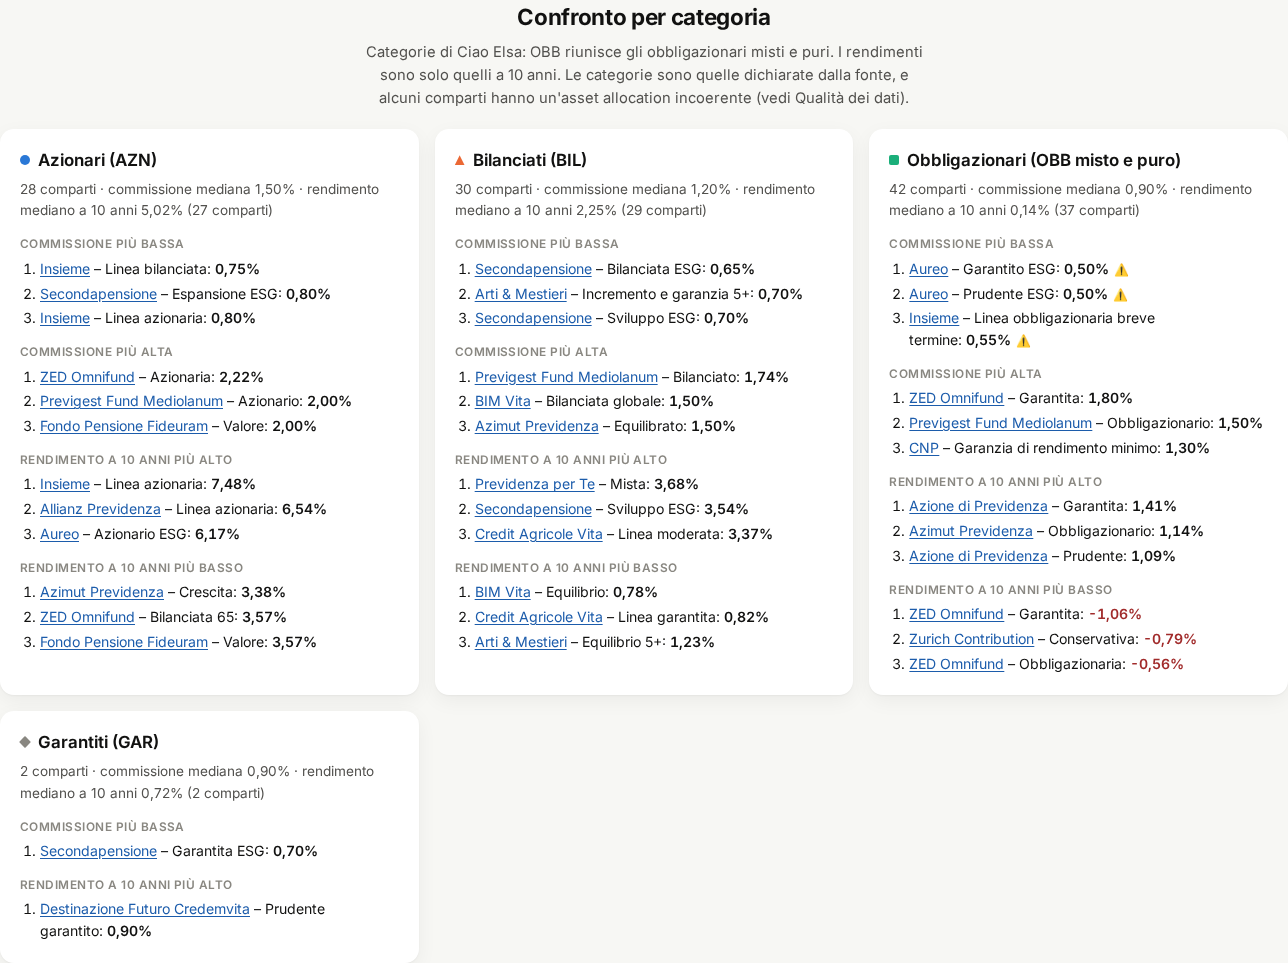
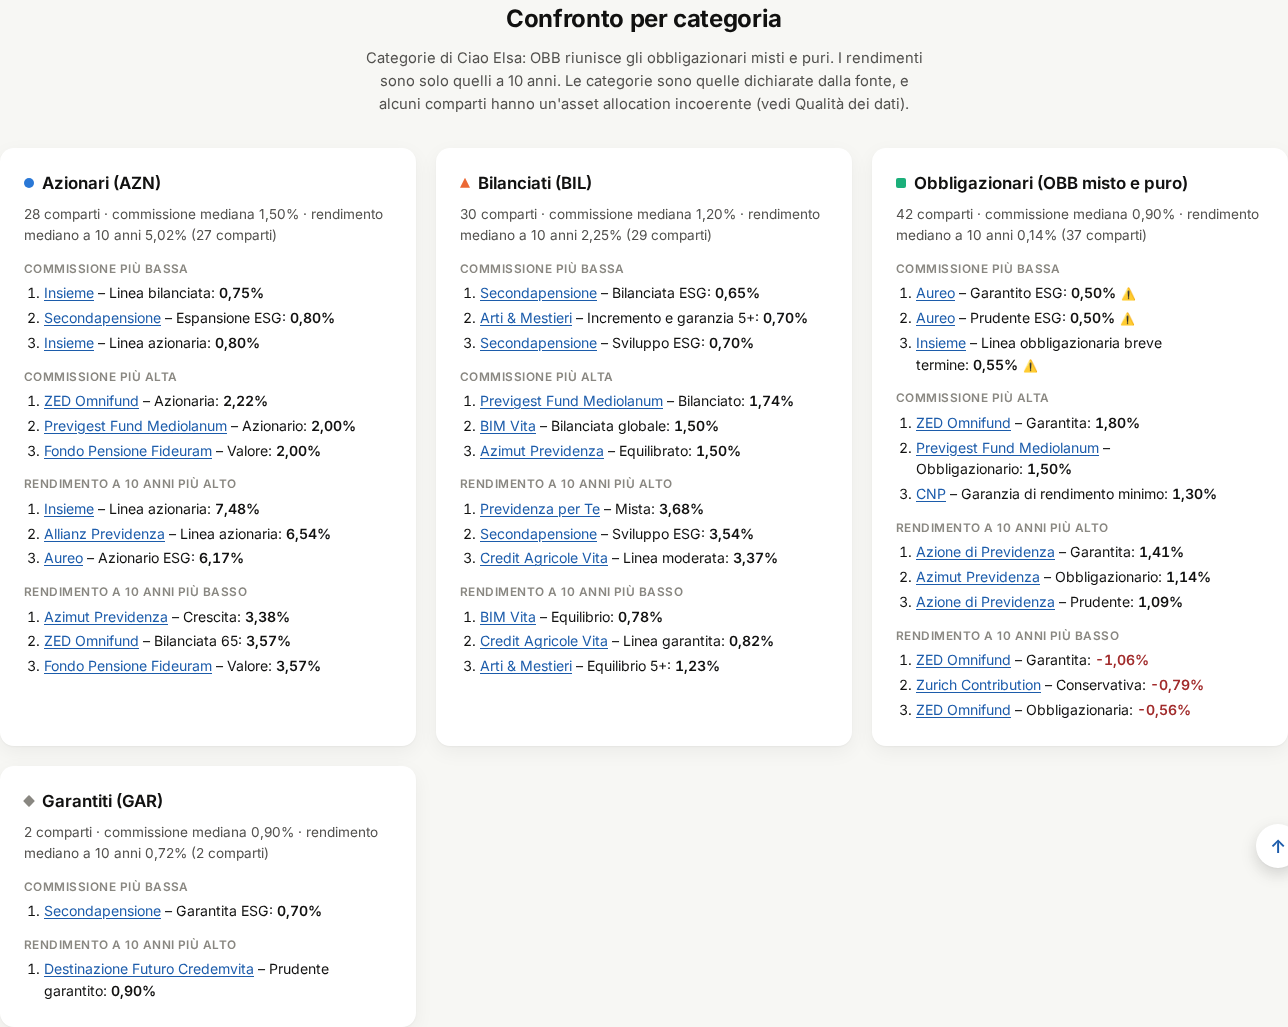
sito: menu con sezione attiva, torna su, più spazio e licenza corretta
- Menu: la barra fissa evidenzia la sezione visibile e su telefono scorre
  fino alla voce attiva (docs/navigazione.js, condiviso con la guida)
- Pulsante "Torna su" in basso a destra, visibile dopo uno schermo
- Spaziatura verticale più ampia tra le sezioni e al loro interno
- Centrate anche le sotto-aperture di Qualità dei dati (Copertura,
  Anomalie) e il footer
- Licenza: il footer riportava erroneamente MIT; ora export_xlsx.py la
  ricava dal file LICENSE (The Unlicense, pubblico dominio) e la scrive in
  meta.json; precisato che i dati restano delle rispettive fonti.
  README corretto
- Test: menu e torna su, licenza; guida, screenshot e CLAUDE.md aggiornati

diff --git a/docs/style.css b/docs/style.css
@@ -112,15 +112,15 @@ a:hover { text-decoration-thickness: 2px; }
 .skip:focus { left: 16px; top: 8px; background: var(--surface); padding: 8px; z-index: 30; }
 
 /* intestazione */
-.hero { background: linear-gradient(180deg, var(--hero-from), var(--hero-to)); padding: 48px 0 32px; text-align: center; }
+.hero { background: linear-gradient(180deg, var(--hero-from), var(--hero-to)); padding: 64px 0 44px; text-align: center; }
 .eyebrow {
-  display: inline-block; margin: 0 0 12px; padding: 3px 10px; border-radius: 999px;
+  display: inline-block; margin: 0 0 18px; padding: 3px 10px; border-radius: 999px;
   background: var(--surface); box-shadow: var(--shadow);
   color: var(--accent-ink); font-size: 0.78rem; font-weight: 600; letter-spacing: 0.01em;
 }
-h1 { font-size: clamp(1.7rem, 3.6vw, 2.5rem); line-height: 1.12; letter-spacing: -0.025em; font-weight: 750; margin: 0 0 12px; }
-h2 { font-size: 1.4rem; letter-spacing: -0.015em; font-weight: 700; margin: 0 0 6px; }
-h3 { font-size: 1.05rem; font-weight: 650; margin: 0 0 8px; }
+h1 { font-size: clamp(1.7rem, 3.6vw, 2.5rem); line-height: 1.12; letter-spacing: -0.025em; font-weight: 750; margin: 0 0 16px; }
+h2 { font-size: 1.5rem; letter-spacing: -0.015em; font-weight: 700; margin: 0 0 10px; }
+h3 { font-size: 1.05rem; font-weight: 650; margin: 0 0 10px; }
 .lead { color: var(--ink-2); font-size: 1.05rem; max-width: 62ch; margin: 0 auto; text-wrap: balance; }
 /* niente parole isolate a fine paragrafo; titoli con righe di lunghezza simile */
 h1, h2, h3 { text-wrap: balance; }
@@ -142,22 +142,24 @@ p, li { text-wrap: pretty; }
   padding: 6px 12px; border-radius: 999px; white-space: nowrap;
 }
 .topnav a:hover { background: var(--surface-2); color: var(--ink); }
+.topnav a[aria-current="true"] { background: var(--accent-soft); color: var(--accent-ink); font-weight: 650; }
 .topnav a.extra { color: var(--accent-ink); }
 .topnav .sep { flex: none; width: 1px; margin: 6px 6px; background: var(--border); }
 
 /* avviso progetto personale */
 .notice {
   display: block;
-  width: fit-content; max-width: 100%; margin: 20px auto 0; padding: 8px 16px;
+  width: fit-content; max-width: 100%; margin: 32px auto 0; padding: 8px 16px;
   background: var(--accent-soft); border-radius: var(--radius-sm);
   color: var(--ink-2); font-size: 0.88rem; text-align: center; text-wrap: balance;
 }
 .notice strong { color: var(--ink); }
 
-main section { margin: 52px 0; }
+main section { margin: 96px 0; }
+main section.kpis { margin: 32px 0 0; }
 /* "aperture" delle sezioni centrate (titolo + prima riga di spiegazione); tabelle, grafico, card e note restano a sinistra */
 main section > h2 { text-align: center; }
-main section > h2 + .hint { text-align: center; text-wrap: balance; margin-left: auto; margin-right: auto; max-width: 72ch; margin-bottom: 20px; }
+main section > h2 + .hint { text-align: center; text-wrap: balance; margin-left: auto; margin-right: auto; max-width: 72ch; margin-bottom: 32px; }
 .hint { color: var(--ink-2); font-size: 0.92rem; max-width: 80ch; margin: 0 0 14px; }
 .alert { background: var(--warn-bg); color: var(--warn-ink); padding: 12px 16px; border-radius: var(--radius-sm); }
 
@@ -168,7 +170,7 @@ main section > h2 + .hint { text-align: center; text-wrap: balance; margin-left:
 .kpi .l { color: var(--ink-2); font-size: 0.86rem; margin-top: 4px; }
 
 /* toolbar e filtri */
-.toolbar { display: flex; flex-wrap: wrap; align-items: center; gap: 8px; margin-bottom: 14px; }
+.toolbar { display: flex; flex-wrap: wrap; align-items: center; gap: 10px 8px; margin-bottom: 20px; }
 .search input, select {
   font: inherit; color: var(--ink); background: var(--surface);
   border: 1px solid var(--axis); border-radius: var(--radius-sm); padding: 8px 12px;
@@ -250,7 +252,7 @@ th[aria-sort="descending"] .sort::after { content: "↓"; color: var(--accent); 
 .alloc-lbl { white-space: nowrap; font-size: 0.8rem; color: var(--ink-2); font-variant-numeric: tabular-nums; }
 
 /* grafico */
-.legend { display: flex; flex-wrap: wrap; gap: 4px 10px; margin-bottom: 10px; font-size: 0.9rem; color: var(--ink-2); }
+.legend { display: flex; flex-wrap: wrap; gap: 4px 10px; margin-bottom: 16px; font-size: 0.9rem; color: var(--ink-2); }
 .legend button { font: inherit; color: inherit; background: none; border: 1px solid transparent; border-radius: 999px; padding: 3px 10px; cursor: pointer; display: inline-flex; align-items: center; gap: 7px; }
 .legend button[aria-pressed="false"] { opacity: 0.4; text-decoration: line-through; }
 .legend button:hover { background: var(--surface); border-color: var(--border); }
@@ -259,8 +261,8 @@ th[aria-sort="descending"] .sort::after { content: "↓"; color: var(--accent); 
 .chart-box { position: relative; height: min(540px, 70vh); background: var(--surface); border-radius: var(--radius); box-shadow: var(--shadow); padding: 16px; }
 
 /* card per categoria */
-.cards { display: grid; grid-template-columns: repeat(auto-fit, minmax(min(100%, 340px), 1fr)); gap: 16px; }
-.card { background: var(--surface); border-radius: var(--radius); box-shadow: var(--shadow); padding: 18px 20px; }
+.cards { display: grid; grid-template-columns: repeat(auto-fit, minmax(min(100%, 340px), 1fr)); gap: 20px; }
+.card { background: var(--surface); border-radius: var(--radius); box-shadow: var(--shadow); padding: 22px 24px; }
 .card h3 { display: flex; align-items: center; gap: 8px; }
 .card .stats { color: var(--ink-2); font-size: 0.85rem; margin: -2px 0 12px; }
 .card h4 { font-size: 0.74rem; text-transform: uppercase; letter-spacing: 0.04em; margin: 14px 0 4px; color: var(--muted); font-weight: 600; }
@@ -274,10 +276,15 @@ th[aria-sort="descending"] .sort::after { content: "↓"; color: var(--accent); 
 .cov span { display: block; height: 100%; }
 .cov .si { background: var(--accent); border-radius: 5px 0 0 5px; }
 .cov .no { background: var(--surface-2); border: 1px solid var(--axis); border-radius: 0 5px 5px 0; }
-.q-grid { display: grid; grid-template-columns: repeat(auto-fit, minmax(min(100%, 340px), 1fr)); gap: 16px; margin-top: 20px; }
-.q-grid > div { background: var(--surface); border-radius: var(--radius); box-shadow: var(--shadow); padding: 16px 18px; }
+.q-grid { display: grid; grid-template-columns: repeat(auto-fit, minmax(min(100%, 340px), 1fr)); gap: 20px; margin-top: 32px; }
+.q-grid > div { background: var(--surface); border-radius: var(--radius); box-shadow: var(--shadow); padding: 22px 24px; }
 .q-grid ul { margin: 8px 0 0; padding-left: 20px; font-size: 0.9rem; }
 .q-grid .q-note { grid-column: 1 / -1; order: 3; }
+/* sotto-aperture centrate come i titoli di sezione */
+.apertura { text-align: center; margin: 0 auto 20px; }
+.apertura + .apertura { margin-top: 48px; }
+.apertura .hint { margin-left: auto; margin-right: auto; max-width: 72ch; text-wrap: balance; }
+.apertura .cov { margin-left: auto; margin-right: auto; }
 .chips { list-style: none; display: flex; flex-wrap: wrap; gap: 6px; padding: 0; margin: 8px 0 0; }
 .q-grid ul.chips { padding-left: 0; }
 .chip {
@@ -318,13 +325,28 @@ dialog::backdrop { background: rgba(10, 10, 10, 0.45); backdrop-filter: blur(2px
 .note-box ul { margin: 4px 0 0; padding-left: 18px; }
 .cell-note { font-size: 0.8rem; color: var(--ink-2); min-width: 180px; max-width: 40ch; }
 
+/* torna su */
+.su {
+  position: fixed; right: 24px; bottom: calc(24px + env(safe-area-inset-bottom)); z-index: 25;
+  width: 44px; height: 44px; border-radius: 999px; border: 0; cursor: pointer;
+  background: var(--surface); color: var(--accent-ink); box-shadow: var(--shadow), 0 6px 18px rgba(0, 0, 0, 0.12);
+  font: 600 1.15rem/1 var(--font);
+  opacity: 0; transform: translateY(8px); pointer-events: none; transition: opacity 0.2s, transform 0.2s;
+}
+.su.visibile { opacity: 1; transform: none; pointer-events: auto; }
+.su:hover { background: var(--accent-soft); }
+h1:focus { outline: none; }
+
 /* footer */
-.site-footer { border-top: 1px solid var(--border); padding: 28px 0 36px; margin-top: 56px; font-size: 0.86rem; color: var(--ink-2); }
-.site-footer p { max-width: 90ch; margin: 0 0 10px; }
+.site-footer { border-top: 1px solid var(--border); padding: 36px 0 44px; margin-top: 96px; font-size: 0.86rem; color: var(--ink-2); }
+.site-footer { text-align: center; }
+.site-footer p { max-width: 90ch; margin: 0 auto 10px; text-wrap: balance; }
 .site-footer code { font-size: 0.9em; }
 
 @media (max-width: 640px) {
-  .hero { padding: 28px 0 20px; }
+  .hero { padding: 36px 0 28px; }
+  main section { margin: 72px 0; }
+  .su { right: 14px; bottom: 14px; }
   .data th, .data td { padding: 8px 9px; }
   #tab-fondi tbody th { min-width: 140px; max-width: 160px; }
   #conteggio { margin-left: 0; width: 100%; }
@@ -332,5 +354,5 @@ dialog::backdrop { background: rgba(10, 10, 10, 0.45); backdrop-filter: blur(2px
   .dialog-head, #d-body { padding-left: 14px; padding-right: 14px; }
   .kpi .v { font-size: 1.7rem; }
 }
-@media (prefers-reduced-motion: reduce) { html { scroll-behavior: auto; } .data tbody tr { transition: none; } }
+@media (prefers-reduced-motion: reduce) { html { scroll-behavior: auto; } .data tbody tr, .su { transition: none; } }
 @media (forced-colors: active) { .alloc .a, .cov .si { background: CanvasText; } .chk:has(input:checked) { outline: 2px solid CanvasText; } }

diff --git a/docs/navigazione.js b/docs/navigazione.js
@@ -1,0 +1,56 @@
+/* Navigazione condivisa da dashboard e guida:
+   - evidenzia nella barra in alto la sezione visibile (aria-current), e su telefono la porta in vista;
+   - pulsante "Torna su" che compare dopo un po' di scorrimento. */
+"use strict";
+
+(() => {
+  // ---------------------------------------------------------------- sezione attiva nel menu
+  const nav = document.querySelector(".topnav .wrap");
+  const link = nav ? [...nav.querySelectorAll('a[href^="#"]')] : [];
+  const sezioni = link.map((a) => document.getElementById(a.hash.slice(1))).filter(Boolean);
+
+  const attiva = (id) => {
+    for (const a of link) {
+      const on = a.hash === `#${id}`;
+      if (on) a.setAttribute("aria-current", "true");
+      else a.removeAttribute("aria-current");
+      // su schermi stretti la barra scorre di lato: porta in vista la voce attiva senza muovere la pagina
+      if (on && nav.scrollWidth > nav.clientWidth) {
+        const sx = a.offsetLeft - (nav.clientWidth - a.offsetWidth) / 2;
+        nav.scrollTo({ left: Math.max(0, sx), behavior: "smooth" });
+      }
+    }
+  };
+
+  if (sezioni.length) {
+    // una sezione è "attiva" quando attraversa una fascia appena sotto la barra fissa
+    const visibili = new Set();
+    const oss = new IntersectionObserver((voci) => {
+      for (const v of voci) v.isIntersecting ? visibili.add(v.target) : visibili.delete(v.target);
+      const prima = sezioni.find((s) => visibili.has(s));
+      if (prima) attiva(prima.id);
+      else if (window.scrollY < sezioni[0].offsetTop) attiva(null);
+    }, { rootMargin: "-80px 0px -55% 0px" });
+    sezioni.forEach((s) => oss.observe(s));
+  }
+
+  // ---------------------------------------------------------------- torna su
+  const su = document.createElement("button");
+  su.type = "button";
+  su.className = "su";
+  su.setAttribute("aria-label", "Torna su");
+  su.title = "Torna su";
+  su.innerHTML = '<span aria-hidden="true">↑</span>';
+  document.body.append(su);
+
+  const aggiorna = () => su.classList.toggle("visibile", window.scrollY > window.innerHeight * 0.8);
+  window.addEventListener("scroll", aggiorna, { passive: true });
+  aggiorna();
+
+  su.addEventListener("click", () => {
+    const riduci = window.matchMedia("(prefers-reduced-motion: reduce)").matches;
+    window.scrollTo({ top: 0, behavior: riduci ? "auto" : "smooth" });
+    // il focus torna all'inizio della pagina per chi naviga da tastiera
+    document.querySelector("h1")?.focus({ preventScroll: true });
+  });
+})();

diff --git a/docs/app.js b/docs/app.js
@@ -430,13 +430,17 @@ function renderQualita() {
   }).join("");
 
   document.getElementById("qualita-body").innerHTML = `
-    <h3>Copertura</h3>
-    <p>${conDati} fondi su ${fondi.length} hanno dati di dettaglio (${pct(conDati / fondi.length, 0)}).</p>
-    <div class="cov" role="img" aria-label="${conDati} fondi con dati su ${fondi.length}">
-      <span class="si" style="flex:${conDati}"></span><span class="no" style="flex:${fondi.length - conDati}"></span></div>
+    <div class="apertura">
+      <h3>Copertura</h3>
+      <p>${conDati} fondi su ${fondi.length} hanno dati di dettaglio (${pct(conDati / fondi.length, 0)}).</p>
+      <div class="cov" role="img" aria-label="${conDati} fondi con dati su ${fondi.length}">
+        <span class="si" style="flex:${conDati}"></span><span class="no" style="flex:${fondi.length - conDati}"></span></div>
+    </div>
 
-    <h3 style="margin-top:20px">Anomalie aperte sui comparti (${anomali.length})</h3>
-    <p class="hint">Segnalate in automatico dallo script di export. I dati sono riportati come sono nella fonte, senza correzioni: vanno verificati sulle Schede costi ufficiali.</p>
+    <div class="apertura">
+      <h3>Anomalie aperte sui comparti (${anomali.length})</h3>
+      <p class="hint">Segnalate in automatico dallo script di export. I dati sono riportati come sono nella fonte, senza correzioni: vanno verificati sulle Schede costi ufficiali.</p>
+    </div>
     <div class="table-scroll"><table class="data">
       <caption class="sr-only">Comparti con anomalie</caption>
       <thead><tr><th scope="col">Fondo</th><th scope="col">Comparto</th><th scope="col">Anomalia</th><th scope="col">Nota</th></tr></thead>
@@ -487,6 +491,11 @@ document.addEventListener("click", (e) => {
 function renderFooter() {
   const m = STATO.meta;
   const commit = m.commit ? ` · commit <code>${esc(m.commit.slice(0, 7))}</code>` : "";
+  const lic = m.licenza;
+  const repo = "https://github.com/andreagalle/goodbye-elsa/blob/master/";
+  document.getElementById("licenza").innerHTML = lic
+    ? `Codice rilasciato con licenza <a href="${repo}${esc(lic.file)}" rel="noopener">${esc(lic.nome)}</a>${lic.spdx === "Unlicense" ? " (pubblico dominio)" : ""}; i dati restano delle rispettive fonti.`
+    : "";
   document.getElementById("meta-footer").innerHTML =
     `Versione <strong>${esc(m.versione ?? "—")}</strong> · Dati aggiornati al ${dataIt(m.workbook_modificato_il)} (workbook <code>${esc(m.workbook)}</code>) · export del ${dataIt(m.generato_il)}${commit}.`;
 }

diff --git a/docs/index.html b/docs/index.html
@@ -11,6 +11,7 @@
   <link rel="stylesheet" href="style.css">
   <script src="https://cdnjs.cloudflare.com/ajax/libs/Chart.js/4.4.1/chart.umd.min.js" defer></script>
   <script src="app.js" defer></script>
+  <script src="navigazione.js" defer></script>
 </head>
 <body>
   <a class="skip" href="#fondi">Vai alla tabella dei fondi</a>
@@ -18,7 +19,7 @@
   <header class="hero">
     <div class="wrap">
       <p class="eyebrow">Albo COVIP · Sezione II – Fondi pensione aperti</p>
-      <h1>Fondi pensione aperti a confronto</h1>
+      <h1 tabindex="-1">Fondi pensione aperti a confronto</h1>
       <p class="lead">Costi, comparti, asset allocation e rendimenti in un unico posto. Dati da fonti ufficiali e dalle schede
         di Ciao Elsa (fonte secondaria): <strong>verifica sempre la Nota informativa</strong> prima di decidere.</p>
     </div>
@@ -104,7 +105,7 @@
         Prima di aderire a un fondo consulta la Nota informativa, la Scheda costi e l'ISC (Indicatore Sintetico dei Costi) pubblicati dal fondo e da
         <a href="https://www.covip.it" rel="noopener">COVIP</a>.</p>
       <p id="meta-footer"></p>
-      <p>Codice con licenza MIT. Fonti: COVIP, siti ufficiali dei gestori, <a href="https://www.ciaoelsa.com" rel="noopener">Ciao Elsa</a> (fonte secondaria).</p>
+      <p><span id="licenza"></span> Fonti: COVIP, siti ufficiali dei gestori, <a href="https://www.ciaoelsa.com" rel="noopener">Ciao Elsa</a> (fonte secondaria).</p>
     </div>
   </footer>
 

diff --git a/docs/guida/index.html b/docs/guida/index.html
@@ -32,6 +32,7 @@
   </style>
   <script src="https://cdn.jsdelivr.net/npm/marked@18.0.13/lib/marked.umd.js" defer></script>
   <script src="https://cdn.jsdelivr.net/npm/dompurify@3.4.15/dist/purify.min.js" defer></script>
+  <script src="../navigazione.js" defer></script>
 </head>
 <body>
   <nav class="topnav" aria-label="Navigazione">

diff --git a/scripts/export_xlsx.py b/scripts/export_xlsx.py
@@ -175,6 +175,32 @@ def versione_app() -> str:
         return "sviluppo"
 
 
+# Riconoscimento della licenza dal file LICENSE del repository (la UI non la scrive mai a mano).
+LICENZE = [
+    ("unencumbered software released into the public domain", "The Unlicense", "Unlicense"),
+    ("mit license", "MIT License", "MIT"),
+    ("apache license", "Apache License 2.0", "Apache-2.0"),
+    ("gnu affero general public license", "GNU AGPL v3", "AGPL-3.0"),
+    ("gnu lesser general public license", "GNU LGPL", "LGPL"),
+    ("gnu general public license", "GNU GPL", "GPL"),
+    ("mozilla public license", "Mozilla Public License 2.0", "MPL-2.0"),
+    ("creative commons", "Creative Commons", "CC"),
+]
+
+
+def licenza_repo(rep: "Report") -> dict | None:
+    f = ROOT / "LICENSE"
+    if not f.exists():
+        rep.avviso("File LICENSE assente: la licenza non viene mostrata nel sito")
+        return None
+    testo_lic = " ".join(f.read_text(encoding="utf-8", errors="replace").lower().split())
+    for chiave, nome, spdx in LICENZE:
+        if chiave in testo_lic:
+            return {"nome": nome, "spdx": spdx, "file": "LICENSE"}
+    rep.avviso("Licenza nel file LICENSE non riconosciuta: aggiungerla a LICENZE in export_xlsx.py")
+    return {"nome": "vedi file LICENSE", "spdx": None, "file": "LICENSE"}
+
+
 def git_commit() -> str | None:
     sha = os.environ.get("GITHUB_SHA")
     if sha:
@@ -464,6 +490,7 @@ def esporta(xlsx: Path, rep: Report) -> tuple[list[dict], list[dict], dict]:
         "workbook_modificato_il": modificato,
         "workbook_sha256": hashlib.sha256(xlsx.read_bytes()).hexdigest(),
         "commit": git_commit(),
+        "licenza": licenza_repo(rep),
         "conteggi": {
             "fondi": len(fondi_out),
             "fondi_con_dati": sum(f["has_dati"] for f in fondi_out),

diff --git a/tests/test_sito.py b/tests/test_sito.py
@@ -56,12 +56,26 @@ class TestSito(unittest.TestCase):
         pg.check("#f-dati")
         self.assertEqual(pg.locator("#tab-fondi tbody tr").count(), 23)
         self.assertIn("Versione", pg.inner_text("#meta-footer"))
+        footer = pg.inner_text(".site-footer")
+        self.assertIn("The Unlicense", footer)
+        self.assertNotIn("MIT", footer)
         self.assertEqual(errori, [])
 
     def test_dettaglio_da_link(self):
         pg, errori = self.pagina("#fondo=aureo", viewport={"width": 1280, "height": 900})
         pg.wait_for_selector("#dettaglio[open] table")
         self.assertEqual(pg.locator("#dettaglio tbody tr").count(), 5)
+        self.assertEqual(errori, [])
+
+    def test_menu_e_torna_su(self):
+        pg, errori = self.pagina("", viewport={"width": 1280, "height": 900})
+        pg.wait_for_selector("#tab-fondi tbody tr")
+        self.assertFalse(pg.is_visible(".su.visibile"))
+        pg.evaluate("document.getElementById('categorie').scrollIntoView({behavior: 'instant'})")
+        pg.wait_for_selector('.topnav a[href="#categorie"][aria-current="true"]')
+        pg.wait_for_selector(".su.visibile")
+        pg.click(".su")
+        pg.wait_for_function("() => window.scrollY === 0")
         self.assertEqual(errori, [])
 
     def test_mobile_senza_scroll_orizzontale(self):

diff --git a/tests/test_export.py b/tests/test_export.py
@@ -83,6 +83,13 @@ class TestExport(unittest.TestCase):
              "rendimento": 0.01, "periodo_anni": 10, "commissione": 0.01}
         self.assertEqual(ex.flag_comparto(c), ["somma_allocazione"])
 
+    def test_licenza_dal_file_license(self):
+        lic = self.meta["licenza"]
+        testo = (ex.ROOT / "LICENSE").read_text(encoding="utf-8").lower()
+        if "public domain" in testo and "unencumbered" in testo:
+            self.assertEqual(lic["spdx"], "Unlicense")
+        self.assertNotEqual(lic["nome"], "vedi file LICENSE", "licenza non riconosciuta")
+
     def test_slug_e_nome_breve(self):
         self.assertEqual(ex.slugify("Arti & Mestieri"), "arti-e-mestieri")
         self.assertEqual(ex.nome_breve("FONDO PENSIONE APERTO TESEO"), "Teseo")

diff --git a/CLAUDE.md b/CLAUDE.md
@@ -168,7 +168,7 @@ Fideuram si sottoscrive solo tramite Private Banker.
     has_dati }`
   - `comparti.json`: `{ fondo_id, comparto, categoria, azioni, obbligazioni, rendimento, periodo_anni, commissione,
     scheda_url, note, flag_anomalia }`
-  - `meta.json`: data di export, hash del commit, conteggi, elenco delle fonti.
+  - `meta.json`: versione, data di export, hash del commit, licenza (da `LICENSE`), conteggi, flag, elenco delle fonti.
   - Le percentuali sono decimali (0.0145), formattate solo nella UI. Celle vuote → `null`, mai 0.
   - Implementato: in più rispetto alla proposta, `fondi.json` ha `nome_breve` (denominazione senza "Fondo pensione aperto"
     ecc., usata dalla UI e per lo slug) e `flag_anomalia`; entrambi i file hanno `riga` (riga del workbook).
@@ -198,15 +198,22 @@ responsive, accessibile, in italiano.
 7. **Disclaimer** sempre visibili: avviso "progetto personale" sotto l'intestazione e nel footer (testo canonico:
    *"Progetto personale, nato per uso privato e pubblicato su GitHub a puro scopo dimostrativo: non è un servizio rivolto
    al pubblico né una consulenza finanziaria."*, più la non affiliazione a COVIP, gestori e Ciao Elsa), ripetuto in
-   guida, presentazione e README. Footer con "non è consulenza finanziaria", versione e data di aggiornamento da
-   `meta.json` e licenza.
+   guida, presentazione e README. Footer (centrato) con "non è consulenza finanziaria", versione e data di
+   aggiornamento da `meta.json` e licenza. **La licenza non si scrive mai a mano**: `export_xlsx.py` la riconosce dal
+   file `LICENSE` del repository (`meta.json → licenza`, oggi **The Unlicense**, pubblico dominio) e il footer la legge
+   da lì; il testo precisa che i dati restano delle rispettive fonti.
 8. **CI**: `.github/workflows/ci.yml` su ogni PR verso `master` (export, test, smoke test del sito, anteprima della
    versione); `.github/workflows/pages.yml` al merge su `master` (export, test, deploy di `docs/` con i JSON copiati in
    `docs/data/`, poi tag e release). Dettagli nella §8.
 9. Pagine collegate dal menu: **Guida** (`docs/guida/`) e **Presentazione** (`docs/presentazione/`), vedi §10.
+   **Navigazione** (`docs/navigazione.js`, condiviso da dashboard e guida): la barra fissa evidenzia la sezione visibile
+   (`aria-current`, IntersectionObserver) e su telefono scorre fino alla voce attiva; pulsante rotondo **"Torna su"**
+   in basso a destra, visibile dopo circa uno schermo di scorrimento. Spaziatura verticale ampia tra le sezioni (96 px,
+   72 su telefono).
 10. **Stile**: semplice e poco distraente. Font Inter (Google Fonts, fallback di sistema), intestazione con leggera
    sfumatura, **intestazione, navigazione e "aperture" delle sezioni centrate** (titolo `h2` + prima riga `.hint`,
-   avviso "progetto personale"); tabelle, grafico, card, note e filtri allineati a sinistra, navigazione fissa a
+   avviso "progetto personale", sotto-aperture `.apertura` come Copertura e Anomalie in Qualità dei dati, footer);
+   tabelle, grafico, card, note e filtri allineati a sinistra, navigazione fissa a
    pillole, card con ombre morbide, filtri a pillola. `text-wrap: balance` sui titoli e `pretty` sui paragrafi, per
    evitare parole isolate a fine riga. Colori come token CSS in
    `docs/style.css` (chiaro/scuro); i colori delle categorie del grafico sono validati e non vanno cambiati a occhio.

diff --git a/docs/guida/GUIDA.md b/docs/guida/GUIDA.md
@@ -28,7 +28,11 @@ Per un giro veloce c'è anche la [presentazione interattiva](../presentazione/):
 
 ![Parte alta della dashboard: titolo, menu e quattro riquadri di riepilogo](img/dashboard.png)
 
-In alto ci sono il menu delle sezioni e quattro **riquadri di riepilogo**:
+Sotto il titolo c'è il **menu delle sezioni**, che resta fisso in alto mentre scorri ed evidenzia la sezione in cui
+ti trovi: cliccando una voce ci salti direttamente. Dopo un po' di scorrimento compare in basso a destra il pulsante
+**↑** per tornare all'inizio della pagina (c'è anche in questa guida).
+
+Subito dopo ci sono quattro **riquadri di riepilogo**:
 
 | Riquadro | Significato |
 |---|---|

diff --git a/README.md b/README.md
@@ -59,4 +59,4 @@ Python 3.11+ e `pip install -r requirements-dev.txt` (solo per l'export basta `r
 poi `python -m playwright install chromium` per test e screenshot.
 
 ## Licenza e fonti
-Dati: COVIP, siti ufficiali dei gestori, Ciao Elsa (vedi `CLAUDE.md` per l'elenco completo). Codice: MIT.
+Dati: COVIP, siti ufficiali dei gestori, Ciao Elsa (vedi `CLAUDE.md` per l'elenco completo). Codice: [The Unlicense](LICENSE) (pubblico dominio); i dati restano delle rispettive fonti.
